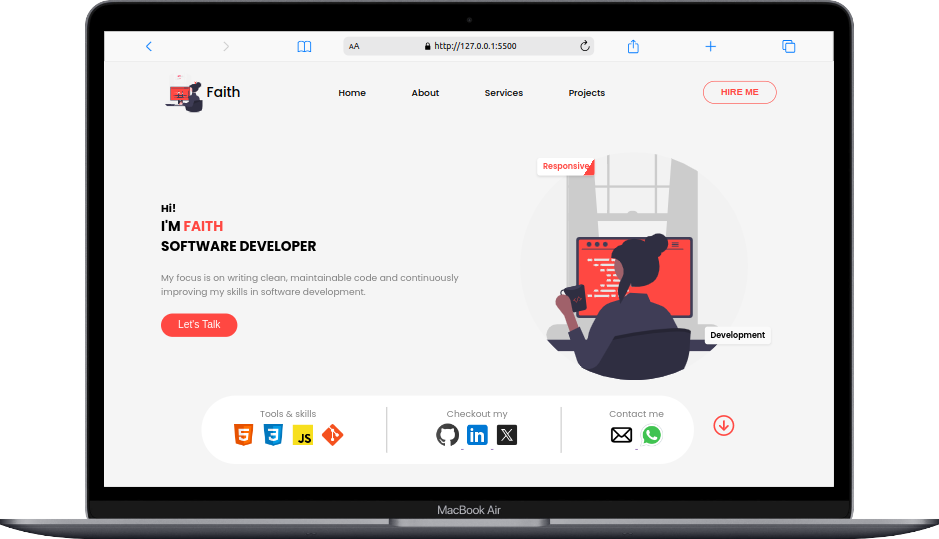
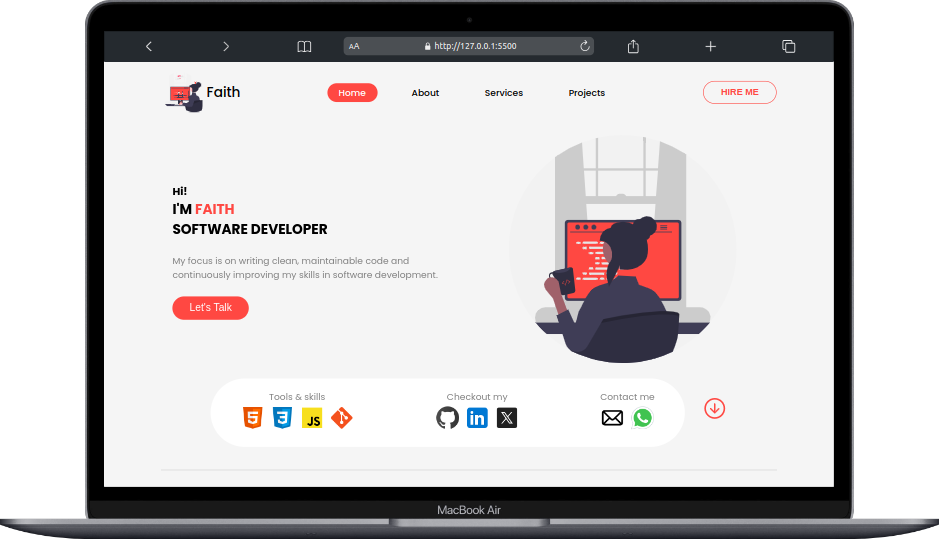
Final commit

diff --git a/index.html b/index.html
@@ -34,10 +34,14 @@
           <ion-icon class="menu-icon" name="menu"></ion-icon>
         </button>
         <ul class="nav-links">
-          <li><a href="#home">Home</a></li>
-          <li><a href="#about">About</a></li>
-          <li><a href="#services">Services</a></li>
-          <li><a href="#projects">Projects</a></li>
+          <li><a href="#home" class="nav-link" id="home-link">Home</a></li>
+          <li><a href="#about" class="nav-link" id="about-link">About</a></li>
+          <li>
+            <a href="#services" class="nav-link" id="services-link">Services</a>
+          </li>
+          <li>
+            <a href="#projects" class="nav-link" id="projects-link">Projects</a>
+          </li>
         </ul>
       </nav>
       <div class="nav-contact">
@@ -343,7 +347,7 @@
           </a>
         </div>
       </div>
-      <div class="rights">©Faith Kariuki-All Rights Reserved</div>
+      <div class="rights">© Faith Kariuki-All Rights Reserved</div>
     </footer>
     <script src="script.js"></script>
   </body>

diff --git a/script.js b/script.js
@@ -11,4 +11,23 @@ menuButton.addEventListener('click', function() {
     }
 });
 
-// TODO: Make an active button for the current page
+document.addEventListener('DOMContentLoaded', () => {
+    const navLinks = document.querySelectorAll('.nav-link');
+
+    navLinks.forEach(link => {
+        link.addEventListener('click', () => {
+            navLinks.forEach(nav => nav.classList.remove('active'));
+            link.classList.add('active');
+        });
+    });
+
+    // Highlight the current section link based on URL hash on page load
+    const currentHash = window.location.hash;
+    if (currentHash) {
+        const activeLink = document.querySelector(`.nav-link[href="${currentHash}"]`);
+        if (activeLink) {
+            navLinks.forEach(nav => nav.classList.remove('active'));
+            activeLink.classList.add('active');
+        }
+    }
+});

diff --git a/style.css b/style.css
@@ -466,6 +466,12 @@ section {
   display: none;
 }
 
+.nav-links .nav-link.active {
+  background-color: #ff4842;
+  border-radius: 50px;
+  color: white;
+}
+
 /* FIXME: Make the navbar more appealing */
 @media (max-width: 480px) {
   body {
@@ -480,6 +486,8 @@ section {
   .navbar .nav-links,
   .nav-contact {
     display: none;
+    flex-direction: column;
+    align-items: center;
   }
 
   .navbar .nav-links.active {
@@ -490,11 +498,7 @@ section {
     background-color: #ff4842;
     width: 50%;
     padding: 20px;
-    box-shadow: 0 2px 4px rgba(0, 0, 0, 0.1);
-    transition: max-height 0.3s ease-out;
-    overflow: hidden;
   }
-
   .navbar .nav-links.active li a {
     font-size: 20px;
     margin-bottom: 20px;
